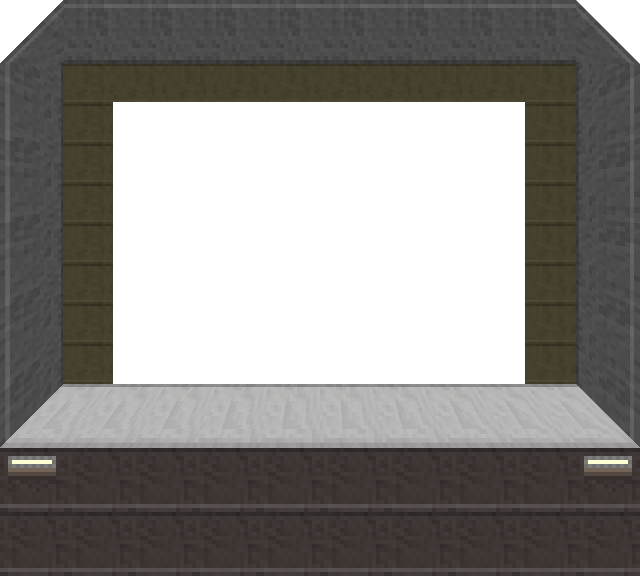
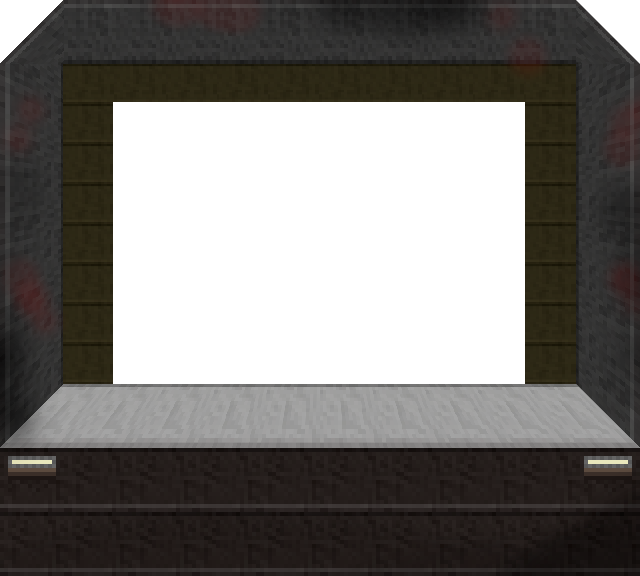
Wall Sector Editor [WIP]. Improved main menu door art.

diff --git a/js/editor/editorRender.js b/js/editor/editorRender.js
@@ -125,13 +125,59 @@ function editorDrawSectorHandles(renderer, sector, walls)
         for(let i = 0; i < walls.length; i++)
         {
             var isWallIncludedInSector = false;
+            
+            if(!isWallIncludedInSector && typeof sector.sectorData.wallsLeft != "undefined")
+            {
+                for(let sw = 0; sw < sector.sectorData.wallsLeft.length; sw++)
+                {
+                    if(walls[i] == sector.sectorData.wallsLeft[sw])
+                    {
+                        isWallIncludedInSector = true;
+                        break;
+                    }
+                }
+            }
+            if(!isWallIncludedInSector && typeof sector.sectorData.sectorsLeft != "undefined")
+            {
+                for(let sw = 0; sw < sector.sectorData.sectorsLeft.length; sw++)
+                {
+                    if(walls[i] == sector.sectorData.sectorsLeft[sw])
+                    {
+                        isWallIncludedInSector = true;
+                        break;
+                    }
+                }
+            }
+            if(!isWallIncludedInSector && typeof sector.sectorData.wallsRight != "undefined")
+            {
+                for(let sw = 0; sw < sector.sectorData.wallsRight.length; sw++)
+                {
+                    if(walls[i] == sector.sectorData.wallsRight[sw])
+                    {
+                        isWallIncludedInSector = true;
+                        break;
+                    }
+                }
+            }
+            if(!isWallIncludedInSector && typeof sector.sectorData.sectorsRight != "undefined")
+            {
+                for(let sw = 0; sw < sector.sectorData.sectorsRight.length; sw++)
+                {
+                    if(walls[i] == sector.sectorData.sectorsRight[sw])
+                    {
+                        isWallIncludedInSector = true;
+                        break;
+                    }
+                }
+            }
 
-            //WIP!!!
-            //check all sector walls and sectors to see if the wall is included in sector
-
-            drawRect(renderer, lerpVec2(walls[i].p1, walls[i].p2, 0.5).subtract(vec2(wallHandleSize/2, wallHandleSize/2)),
-                vec2(wallHandleSize, wallHandleSize), isWallIncludedInSector,
-                currentWallType == walls[i].type ? editorTypeHighlightColor : wallHandleColor, 0);
+            if(walls[i] != sector)
+                drawRect(renderer, lerpVec2(walls[i].p1, walls[i].p2, 0.5).subtract(vec2(wallHandleSize/2, wallHandleSize/2)),
+                    vec2(wallHandleSize, wallHandleSize), isWallIncludedInSector,
+                    currentWallType == walls[i].type ? editorTypeHighlightColor : wallHandleColor, 0);
+            else
+                drawRect(renderer, lerpVec2(walls[i].p1, walls[i].p2, 0.5).subtract(vec2(wallHandleSize/4, wallHandleSize/4)),
+                    vec2(wallHandleSize/2, wallHandleSize/2), true, "red", 0);
         }
         
         drawRect(renderer, sector.p1.subtract(vec2(wallHandleSize/4, wallHandleSize/4)),

diff --git a/index.html b/index.html
@@ -102,7 +102,6 @@
 
 
     #mainMenuCube {
-        OMITtransform: scale(0.5);
         width: 640px;
         height: 576px;
         position: absolute;
@@ -131,12 +130,12 @@
         font-size: 50px;
         font-weight: bold;
     }
-    #cube .front { background: url(images/wallCarbonReinforced.png); transform: rotateY(0deg ) translateZ( 50px ); }
-    #cube .back { background: url(images/wallObsidianLight.png); transform: rotateX( 180deg ) translateZ( 50px ); }
-    #cube .right { background: url(images/wallDanger.png); transform: rotateY(  90deg ) translateZ( 50px ); }
-    #cube .left { background: url(images/wallSteelGreenlight.png); transform: rotateY( -90deg ) translateZ( 50px ); }
-    #cube .top { background: url(images/wallTech2.png); transform: rotateX(  90deg ) translateZ( 50px ); }
-    #cube .bottom { background: url(images/wallTechServer.png); transform: rotateX( -90deg ) translateZ( 50px ); }
+    #cube .front { background-image: radial-gradient(rgba(0, 0, 0, 0.1), rgba(0, 0, 0, 0.6), rgba(0, 0, 0, 1)), url(images/wallCarbonReinforced.png); transform: rotateY(0deg ) translateZ( 50px ); }
+    #cube .back { background-image: radial-gradient(rgba(0, 0, 0, 0.1), rgba(0, 0, 0, 0.6), rgba(0, 0, 0, 1)), url(images/wallObsidianLight.png); transform: rotateX( 180deg ) translateZ( 50px ); }
+    #cube .right { background-image: radial-gradient(rgba(0, 0, 0, 0.1), rgba(0, 0, 0, 0.6), rgba(0, 0, 0, 1)), url(images/wallDanger.png); transform: rotateY(  90deg ) translateZ( 50px ); }
+    #cube .left { background-image: radial-gradient(rgba(0, 0, 0, 0.1), rgba(0, 0, 0, 0.6), rgba(0, 0, 0, 1)), url(images/wallSteelGreenlight.png); transform: rotateY( -90deg ) translateZ( 50px ); }
+    #cube .top { background-image: radial-gradient(rgba(0, 0, 0, 0.1), rgba(0, 0, 0, 0.6), rgba(0, 0, 0, 1)), url(images/wallTech2.png); transform: rotateX(  90deg ) translateZ( 50px ); }
+    #cube .bottom { background-image: radial-gradient(rgba(0, 0, 0, 0.1), rgba(0, 0, 0, 0.6), rgba(0, 0, 0, 1)), url(images/wallTechServer.png); transform: rotateX( -90deg ) translateZ( 50px ); }
     @keyframes rotatecube {
         0% { transform: rotateX(0deg) rotateY(360deg) rotateZ(90deg); }
         25% { transform: rotateX(90deg) rotateY(270deg) rotateZ(180deg); }
@@ -158,14 +157,6 @@
         left:320px;
         background-position:-320px -102px;
     }
-    /*
-    #leftdoor:hover {
-        left:-92px;
-    }
-    #rightdoor:hover {
-        left:526px;
-    }
-    */
 
   </style>
 </head>

diff --git a/js/editor/editorEvents.js b/js/editor/editorEvents.js
@@ -57,7 +57,7 @@ var lastSelectedEnemyIndex = -1;
 
 function switchTabAccordingToType(dir)
 {
-    if(cpEditTabs[0].selector.selected)
+    if(cpEditTabs[0].selector.selected || cpEditTabs[5].selector.selected)
     {
         if(dir > 0 && currentWallType >= wallImages.length)
         {
@@ -964,5 +964,24 @@ function enemyHandleEvents(enemyEnts, offset)
 
 function sectorHandleEvents(activeSector, walls, offset)
 {
+    var oldType = currentWallType;
+    currentWallType += (wheelScroll != 0 ? (wheelScroll > 0 ? 1 : -1) : 0);
+
+    if(keysDown.indexOf(editorTypeIncKey) != -1) {
+        if(!isKeyPressed(editorTypeIncKey)) currentWallType++; }
+    else
+        removeKeyPressed(editorTypeIncKey);
+    
+    if(keysDown.indexOf(editorTypeDecKey) != -1) {
+        if(!isKeyPressed(editorTypeDecKey)) currentWallType--; }
+    else
+        removeKeyPressed(editorTypeDecKey);
+
+    if(oldType != currentWallType)
+        switchTabAccordingToType(currentWallType - oldType);
+
+    //if(currentWallType >= wallImages.length) currentWallType = 0;
+    //else if(currentWallType <= -1) currentWallType = wallImages.length - 1;
+
     //WIP!!!
 }
